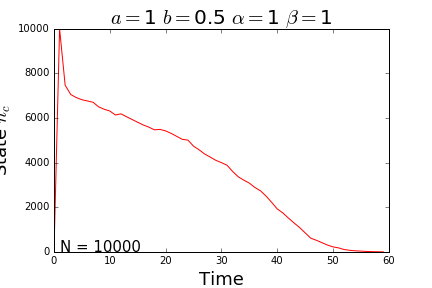
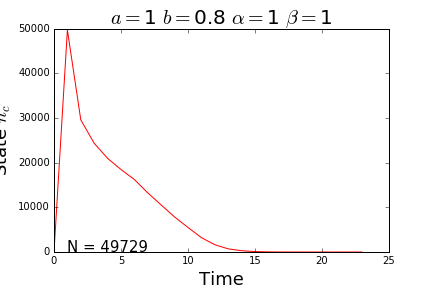
break simulations after 5 iterations of nC == 0

diff --git a/points/spaceFeedback/180deg/applause_functions.py b/points/spaceFeedback/180deg/applause_functions.py
@@ -86,9 +86,12 @@ def sim_space(aStoC, bCtoS, alpha, beta, N, M, C, t, t_1):
     population = N * M
     AGENT = audience(N, M, C)
     graph = []
+    zeroCount = 0
 
     for k in range(t):
         nC = sum(AGENT) #number of people clapping
+        if nC == 0:
+            zeroCount += 1
         graph.append(nC)
         for i in range(N):
             for j in range(M):
@@ -98,6 +101,9 @@ def sim_space(aStoC, bCtoS, alpha, beta, N, M, C, t, t_1):
                 else:
                     if random() <= bCtoS * feedback_beta(beta, nC, population):
                         AGENT[i,j] -= 1
+        if zeroCount == 6:
+            break
+            return graph
     return graph
  
 #graphs theoretical steady_state based on parameters    

diff --git a/source/applause_functions.py b/source/applause_functions.py
@@ -86,9 +86,12 @@ def sim_space(aStoC, bCtoS, alpha, beta, N, M, C, t, t_1):
     population = N * M
     AGENT = audience(N, M, C)
     graph = []
+    zeroCount = 0
 
     for k in range(t):
         nC = sum(AGENT) #number of people clapping
+        if nC == 0:
+            zeroCount += 1
         graph.append(nC)
         for i in range(N):
             for j in range(M):
@@ -98,6 +101,9 @@ def sim_space(aStoC, bCtoS, alpha, beta, N, M, C, t, t_1):
                 else:
                     if random() <= bCtoS * feedback_beta(beta, nC, population):
                         AGENT[i,j] -= 1
+        if zeroCount == 6:
+            break
+            return graph
     return graph
  
 #graphs theoretical steady_state based on parameters    

diff --git a/points/spaceFeedback/180deg/durationVSsize_180deg.py b/points/spaceFeedback/180deg/durationVSsize_180deg.py
@@ -44,7 +44,7 @@ for alpha_iter in range(2,10,1):
             appDurationTrials = [] #temporary holder of trials to be averaged   
             for j in range(trials): #simulates parameters and population TRAIL times
                 N = pop
-                sim = app.sim_space(aStoC, bCtoS_iter*0.1, alpha_iter*0.1, beta, N, N, C, t, t_1,N,0)
+                sim = app.sim_space(aStoC, bCtoS_iter*0.1, alpha_iter*0.1, beta, N, N, C, t, t_1)
                 appDurationTrials.append(indexFilter(0,sim,1,t))
                 print('Trial ' + str(j) + ' complete ')
         

diff --git a/source/compareFeedback.py b/source/compareFeedback.py
@@ -14,14 +14,14 @@ import matplotlib.pyplot as plt
 import numpy as np
 import time
 
-N = 100
-M = 100
+N = 223
+M = 223
 population = N * M
 t = 60
 t_1 = 1
 C = 0
 aStoC = 1
-bCtoS = 0.5
+bCtoS = 0.8
 alpha = 1
 beta = 1
 
@@ -44,4 +44,5 @@ plt.ylabel('State'+r' $n_{c}$',fontsize=18)
 #plt.ylim(0,110)
 plt.savefig('sim2.png')
 plt.show()
+print(sim2)
 print(str(time.time() - start_time) + ' seconds')
